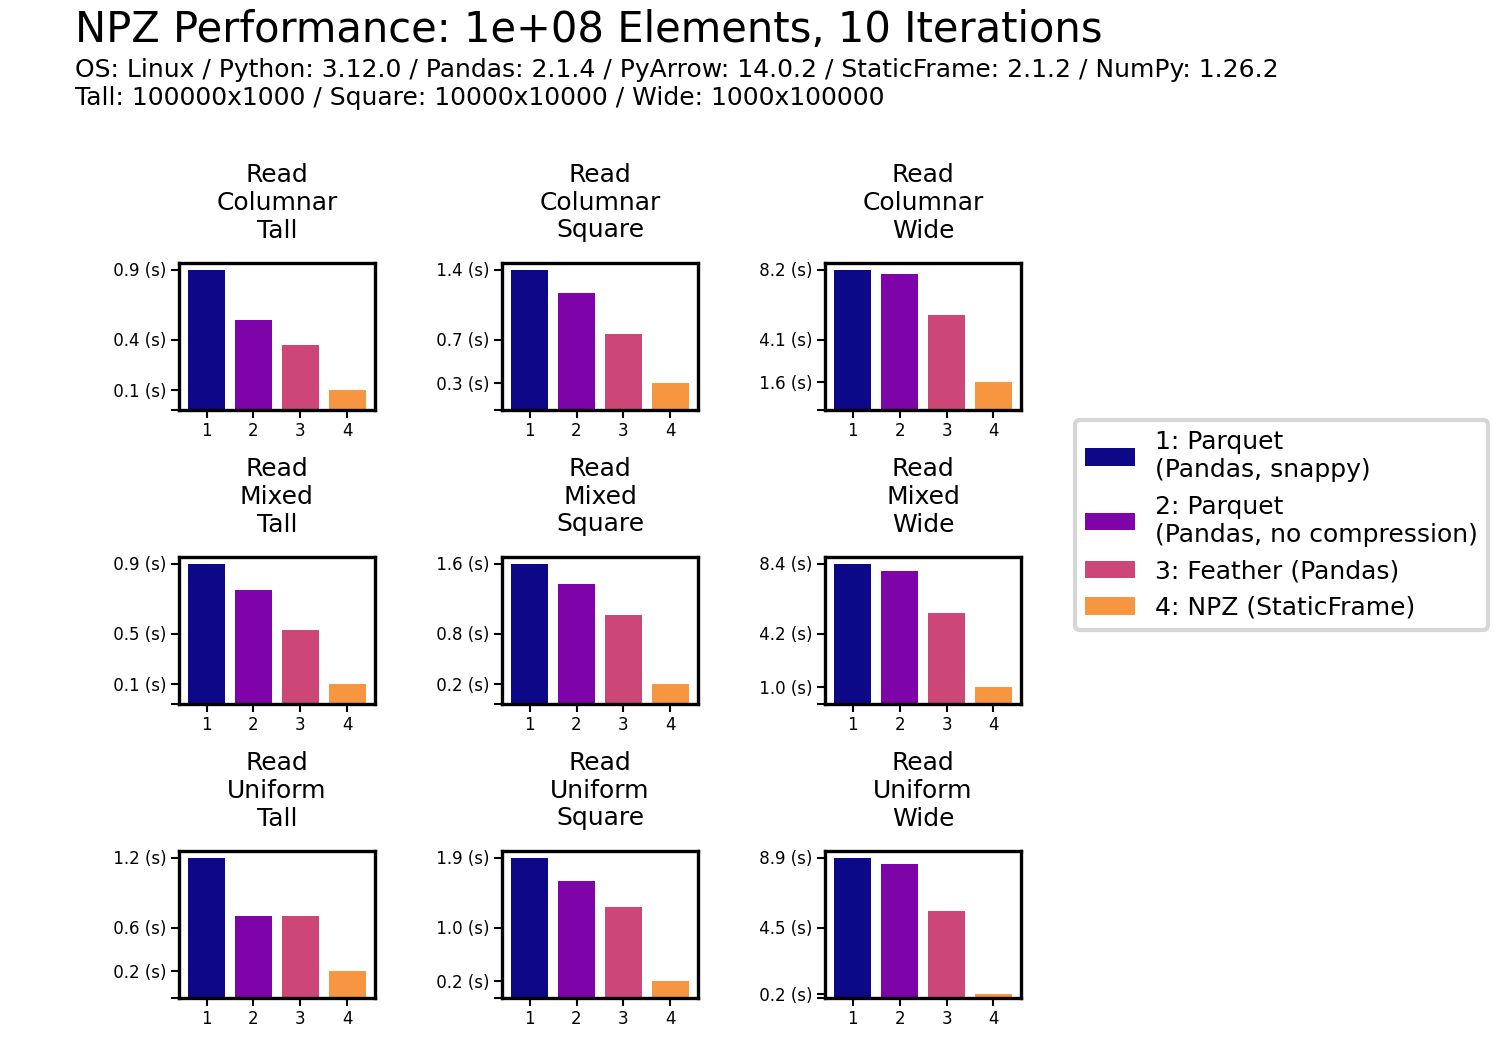
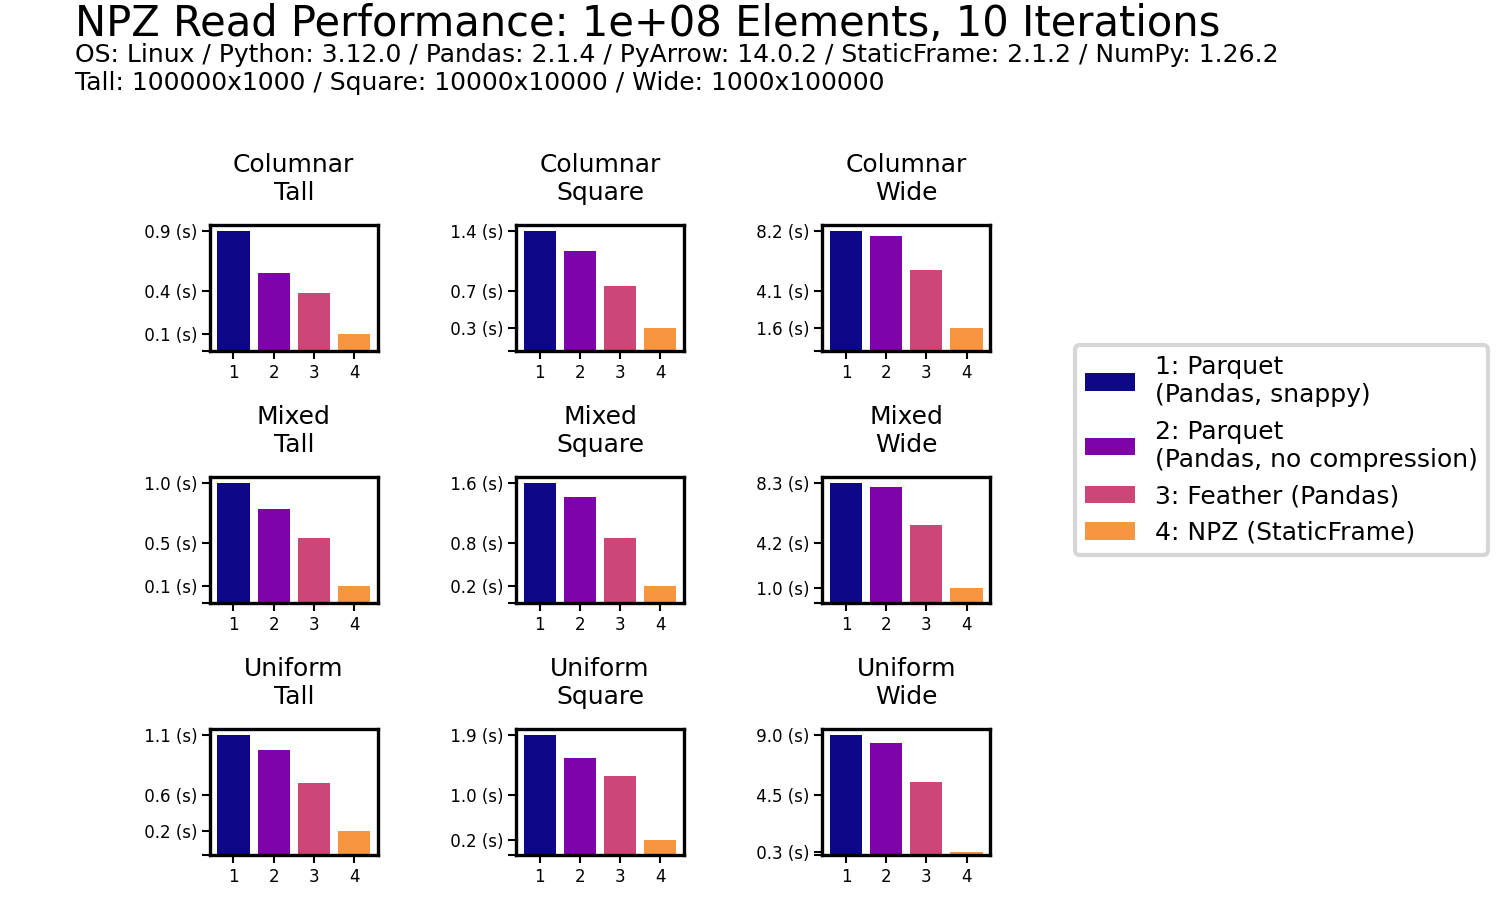
updated chart labelling

diff --git a/doc/source/articles/serialize.py b/doc/source/articles/serialize.py
@@ -249,10 +249,10 @@ class SFReadNPYMM(FileIOTest):
 
 
 #-------------------------------------------------------------------------------
-NUMBER = 1
+NUMBER = 10
 
 def scale(v):
-    return int(v * .1)
+    return int(v * 1)
 
 FF_wide_uniform = f's({scale(100)},{scale(10_000)})|v(float)|i(I,int)|c(I,str)'
 FF_wide_mixed   = f's({scale(100)},{scale(10_000)})|v(int,int,bool,float,float)|i(I,int)|c(I,str)'
